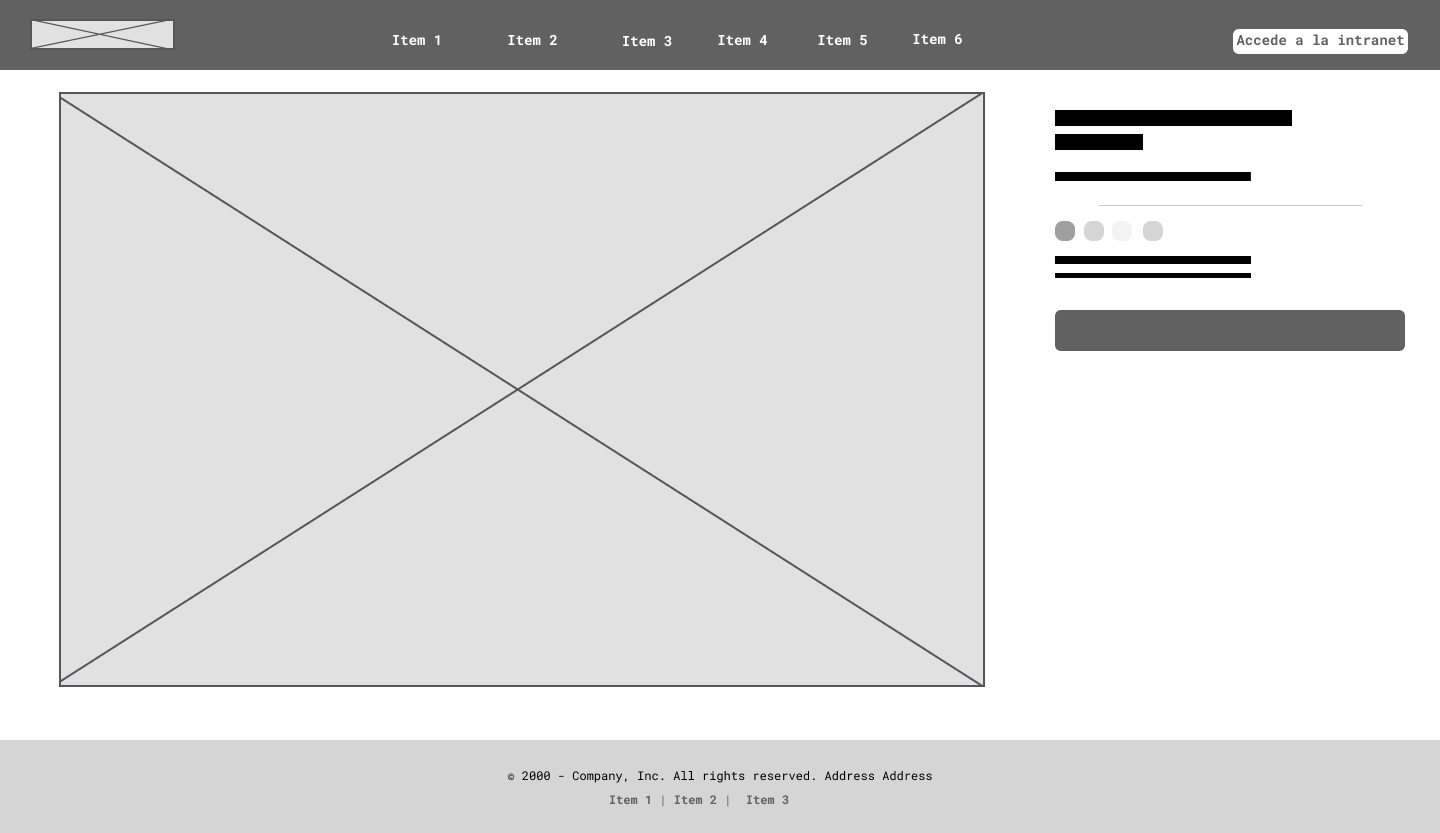
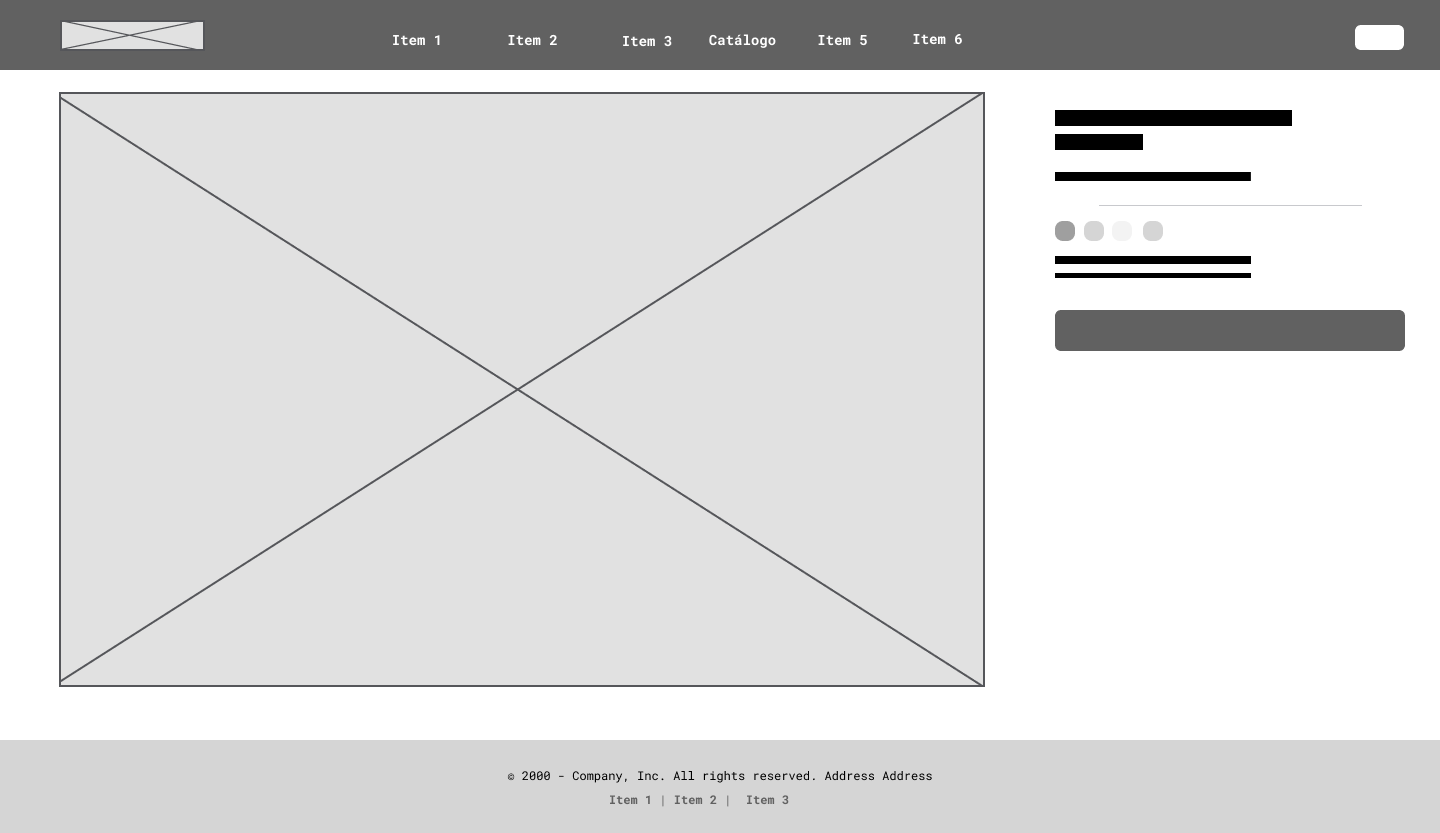
Cambios
Corrección del profesor sobre los wireframes

Changed region(s): [[0.0, 0.0, 0.1562, 0.0624], [0.8438, 0.0312, 1.0, 0.0624], [0.5, 0.0312, 0.5312, 0.0624]]

diff --git a/P2/README.md b/P2/README.md
@@ -53,7 +53,6 @@ Mapa jerárquico del sitio web que muestra la organización de las secciones pri
 
 ### Prototipo Lo-FI Wireframe 
 
-
 Se han diseñado wireframes para **dispositivos móviles y ordenadores** simulando la estructura y navegación del nuevo apartado de catálogo online. 
 
 Las pantallas incluyen:
@@ -75,6 +74,9 @@ Las pantallas incluyen:
 ###### Ficha de Artículo
  ![Ficha de Artículo Móvil](mobileFichaArticulo.png)
 
+###### Login
+ ![Login Móvil](mobileLogin.png)
+
 #### Versión escritorio:
 
 ###### Pantalla inicial
@@ -89,10 +91,20 @@ Las pantallas incluyen:
 ###### Ficha de Artículo
  ![Ficha de Artículo](pcFichaArticulo.png)
 
+###### Login
+ ![Login](pcLogin.png)
+
 ---
 
 **Herramienta usada:**  
 Todos los wireframes se han realizado en **Figma**, utilizando el kit de componentes UI básico y ajustando elementos para representar el flujo de navegación planteado en el User Flow.
+
+<br>
+
+**Prototipos interactivos:**  
+- 💻 [Versión PC](https://www.figma.com/proto/TddvcX5VxrWGpxht68bFAP/Wireframe?node-id=575-1412&t=ZXvbFVGc0bCY3gkA-1)
+- 📱 [Versión móvil](https://www.figma.com/proto/TddvcX5VxrWGpxht68bFAP/Wireframe?node-id=577-1743&t=ZXvbFVGc0bCY3gkA-1)
+
 
 ### Conclusiones  
 Esta práctica me ha servido para plantear mejoras reales en la web, centradas en lo que necesitan los usuarios. Añadir un catálogo online con filtros y stock actualizado puede hacer la experiencia mucho más cómoda. Además, las herramientas como los wireframes o el user flow me han ayudado a organizar mejor las ideas y visualizar cómo sería la solución.

diff --git a/README.md b/README.md
@@ -224,6 +224,9 @@ Las pantallas incluyen:
 ###### Ficha de Artículo
  ![Ficha de Artículo Móvil](P2/mobileFichaArticulo.png)
 
+###### Login
+ ![Login Móvil](P2/mobileLogin.png)
+
 #### Versión escritorio:
 
 ###### Pantalla inicial
@@ -238,12 +241,19 @@ Las pantallas incluyen:
 ###### Ficha de Artículo
  ![Ficha de Artículo](P2/pcFichaArticulo.png)
 
+###### Login
+ ![Login](P2/pcLogin.png)
+
 ---
 
 **Herramienta usada:**  
 Todos los wireframes se han realizado en **Figma**, utilizando el kit de componentes UI básico y ajustando elementos para representar el flujo de navegación planteado en el User Flow.
 
 <br>
+
+**Prototipos interactivos:**  
+- 💻 [Versión PC](https://www.figma.com/proto/TddvcX5VxrWGpxht68bFAP/Wireframe?node-id=575-1412&t=ZXvbFVGc0bCY3gkA-1)
+- 📱 [Versión móvil](https://www.figma.com/proto/TddvcX5VxrWGpxht68bFAP/Wireframe?node-id=577-1743&t=ZXvbFVGc0bCY3gkA-1)
 
 ## Paso 3. Mi UX-Case Study (diseño)
 
